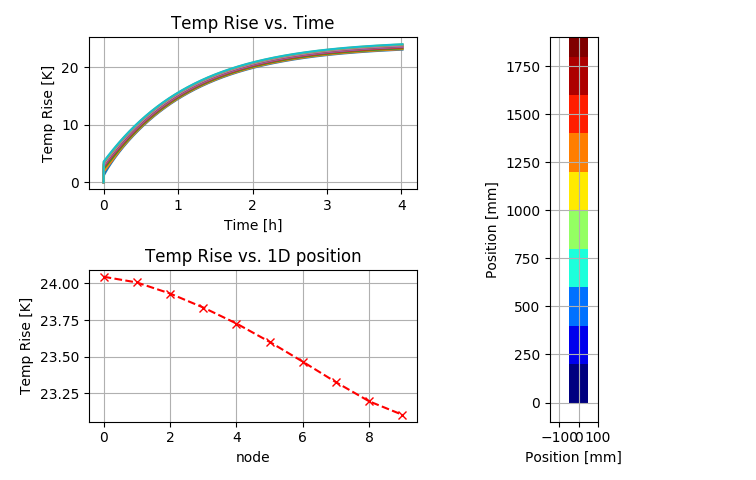
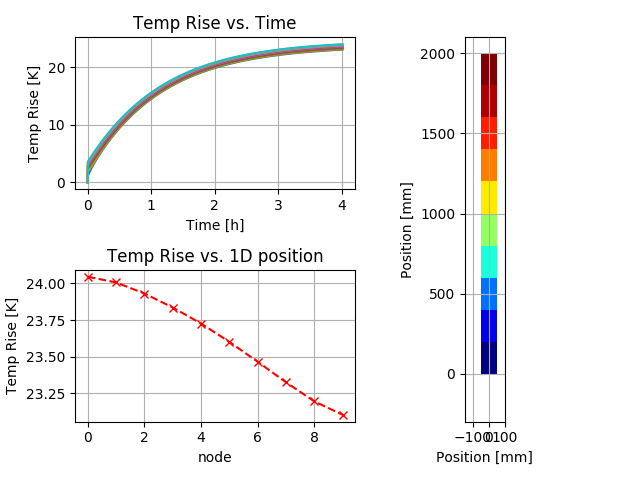
Start working on decent redme

diff --git a/thermalModelLibrary/tntSolverObj.py b/thermalModelLibrary/tntSolverObj.py
@@ -332,14 +332,14 @@ def drawElements(axis, Elements, Temperatures=None):
             if maxX < rx:
                 maxX = rx
 
-            if maxY < ry:
-            	maxY = ry
+            if maxY < ry + shapeH:
+            	maxY = ry + shapeH
 
             if minX > rx:
                 minX = rx
 
-            if minY > ry:
-            	minY = ry
+            if minY > ry - shapeH:
+            	minY = ry - shapeH
 
     # some matplotlib mambo jambo to make the rect
     # colored according to the temp rise

diff --git a/rm_example.py b/rm_example.py
@@ -14,7 +14,7 @@ conductor = tntO.thermalElement(
         	source = 0,
         	material = Cu)
 
-Elements = [ (conductor, 11) ]
+Elements = [ (conductor, 10) ]
 
 Elements = tntS.generateList(Elements) 
 
